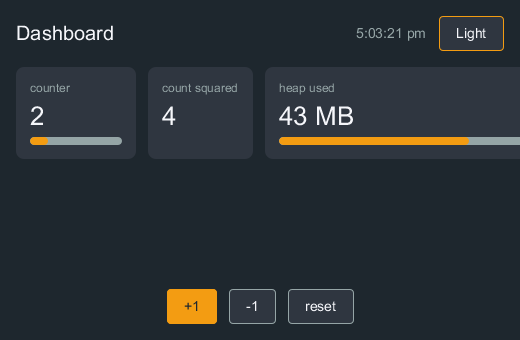
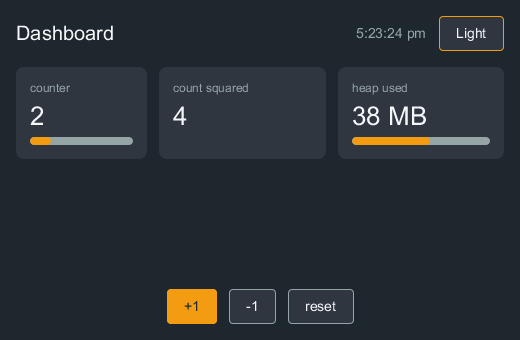
fix: Slider and ProgressBar no longer inflate the box they sit in
Dragging the slider in the form example turned into an oscillation: the
control grew wider, which moved the handle, which changed the value, which
laid it out again.

Both controls drew their fill as a child with a percentage width. A
percentage resolves against the space available while the parent is still
being measured, so it fed back into the control's own intrinsic width — at
value = max the slider jumped from 328 to 388 px in a 420 px window, and a
dashboard card with a fuller progress bar came out wider than one with an
empty bar and pushed the row past the window edge.

Both now express the fill as two flexible boxes with a zero basis, so the
fill is a ratio and contributes no intrinsic width, and both set minWidth
to 0 so they can shrink. The slider's thumb keeps its absolute percentage
offset, which never contributed.

Tests pin the property rather than the pixels: the slider's width is
identical across the whole value range, and two dashboard-style cards with
different progress values stay equal-width inside their window.

diff --git a/test/smoke.test.js b/test/smoke.test.js
@@ -2106,6 +2106,102 @@ test('a press inside the menu is a normal click, not a dismissal', async () => {
   ReactX11.unmountComponentAtNode(app);
 });
 
+test('Slider keeps its width as the value changes (no drag feedback loop)', async () => {
+  const { Slider } = await import('../src/index.js');
+  const app = createMockApp();
+  let setValue;
+  const Host = () => {
+    const [v, setV] = React.useState(0);
+    setValue = setV;
+    return React.createElement(
+      'window',
+      { width: 300, height: 80 },
+      React.createElement(
+        'box',
+        { flexDirection: 'row', alignItems: 'center', flexGrow: 1, gap: 10 },
+        React.createElement('box', { width: 40, height: 10 }),
+        React.createElement(Slider, {
+          flexGrow: 1,
+          min: 0,
+          max: 100,
+          value: v,
+          onChange: setV,
+        }),
+      ),
+    );
+  };
+
+  ReactX11.render(React.createElement(Host), null, app);
+  await tick();
+  const row = app.windows[0]._reactX11Node.children[0];
+  const slider = row.children[1];
+  const widths = [];
+  for (const value of [0, 25, 50, 75, 100]) {
+    setValue(value);
+    await tick();
+    await tick();
+    widths.push(slider.abs.width);
+  }
+
+  // the fill used to be a percentage width, which fed back into the
+  // control's own intrinsic width: at the maximum it grew, the handle
+  // moved with it, and a drag oscillated between the two layouts
+  assert.strictEqual(
+    new Set(widths).size,
+    1,
+    `width is stable across the range, got ${widths.join(', ')}`,
+  );
+
+  ReactX11.unmountComponentAtNode(app);
+});
+
+test('ProgressBar does not widen the box it sits in', async () => {
+  const { ProgressBar } = await import('../src/index.js');
+  const app = createMockApp();
+  const Card = ({ progress }) =>
+    React.createElement(
+      'box',
+      { flexGrow: 1, padding: 10 },
+      React.createElement(ProgressBar, { value: progress }),
+    );
+
+  ReactX11.render(
+    React.createElement(
+      'window',
+      { width: 300, height: 120 },
+      React.createElement(
+        'box',
+        { flexDirection: 'row', flexGrow: 1, gap: 10 },
+        React.createElement(Card, { key: 'a', progress: 0.1 }),
+        React.createElement(Card, { key: 'b', progress: 0.9 }),
+      ),
+    ),
+    null,
+    app,
+  );
+  await tick();
+
+  const row = app.windows[0]._reactX11Node.children[0];
+  const [low, high] = row.children;
+  // a fuller bar used to make its card wider — the percentage width fed
+  // back into the intrinsic size — and the row overflowed the window
+  assert.strictEqual(low.abs.width, high.abs.width, 'cards are equal width');
+  assert.ok(
+    high.abs.x + high.abs.width <= 300,
+    `the row fits the window (right edge ${high.abs.x + high.abs.width})`,
+  );
+
+  // and the fill still tracks the value
+  const fill = high.children[0].children[0];
+  const track = high.children[0];
+  assert.ok(
+    Math.abs(fill.abs.width / track.abs.width - 0.9) < 0.02,
+    `fill is 90% of the track, got ${fill.abs.width}/${track.abs.width}`,
+  );
+
+  ReactX11.unmountComponentAtNode(app);
+});
+
 test('Tooltip shows after the delay in a popup and hides on leave', async () => {
   const { Tooltip, Button } = await import('../src/index.js');
   const app = createMockApp();

diff --git a/src/components/ProgressBar.js b/src/components/ProgressBar.js
@@ -19,6 +19,12 @@ export function ProgressBar({
 }) {
   const theme = useTheme();
   const clamped = Math.min(1, Math.max(0, value));
+  // The fill is expressed as flex ratios rather than a percentage width: a
+  // percentage child resolves against the space available while the parent
+  // is still being measured, so it fed back into the track's intrinsic
+  // width and made whatever contained the bar grow — a dashboard card with
+  // a fuller bar came out wider than one with an empty bar, and overflowed
+  // the window. Two flexible boxes with a zero basis contribute nothing.
   return h(
     'box',
     {
@@ -27,12 +33,16 @@ export function ProgressBar({
       backgroundColor: trackColor ?? theme.track,
       overflow: 'hidden',
       flexDirection: 'row',
+      minWidth: 0,
       ...boxProps,
     },
     h('box', {
-      width: `${clamped * 100}%`,
+      flexGrow: clamped,
+      flexShrink: 0,
+      flexBasis: 0,
       borderRadius: height / 2,
       backgroundColor: color ?? theme.accent,
     }),
+    h('box', { flexGrow: 1 - clamped, flexShrink: 0, flexBasis: 0 }),
   );
 }

diff --git a/src/components/Slider.js b/src/components/Slider.js
@@ -125,6 +125,7 @@ export function Slider({
       ref: trackRef,
       width,
       height: SLIDER_THUMB,
+      minWidth: 0,
       justifyContent: 'center',
       ...controlProps,
       ...boxProps,
@@ -140,12 +141,20 @@ export function Slider({
         alignItems: 'center',
         pointerEvents: 'none',
       },
+      // flex ratios, not a percentage width: a percentage child resolves
+      // against the space available while the track is still being
+      // measured, so it fed back into the slider's own intrinsic width —
+      // at value = max the control grew, which moved the handle, which
+      // changed the value, and a drag turned into an oscillation
       h('box', {
-        width: `${fraction * 100}%`,
+        flexGrow: fraction,
+        flexShrink: 0,
+        flexBasis: 0,
         height,
         borderRadius: height / 2,
         backgroundColor: disabled ? theme.dim : theme.accent,
       }),
+      h('box', { flexGrow: 1 - fraction, flexShrink: 0, flexBasis: 0 }),
     ),
     // thumb, centred on the value within the same travel the math uses
     h('box', {
